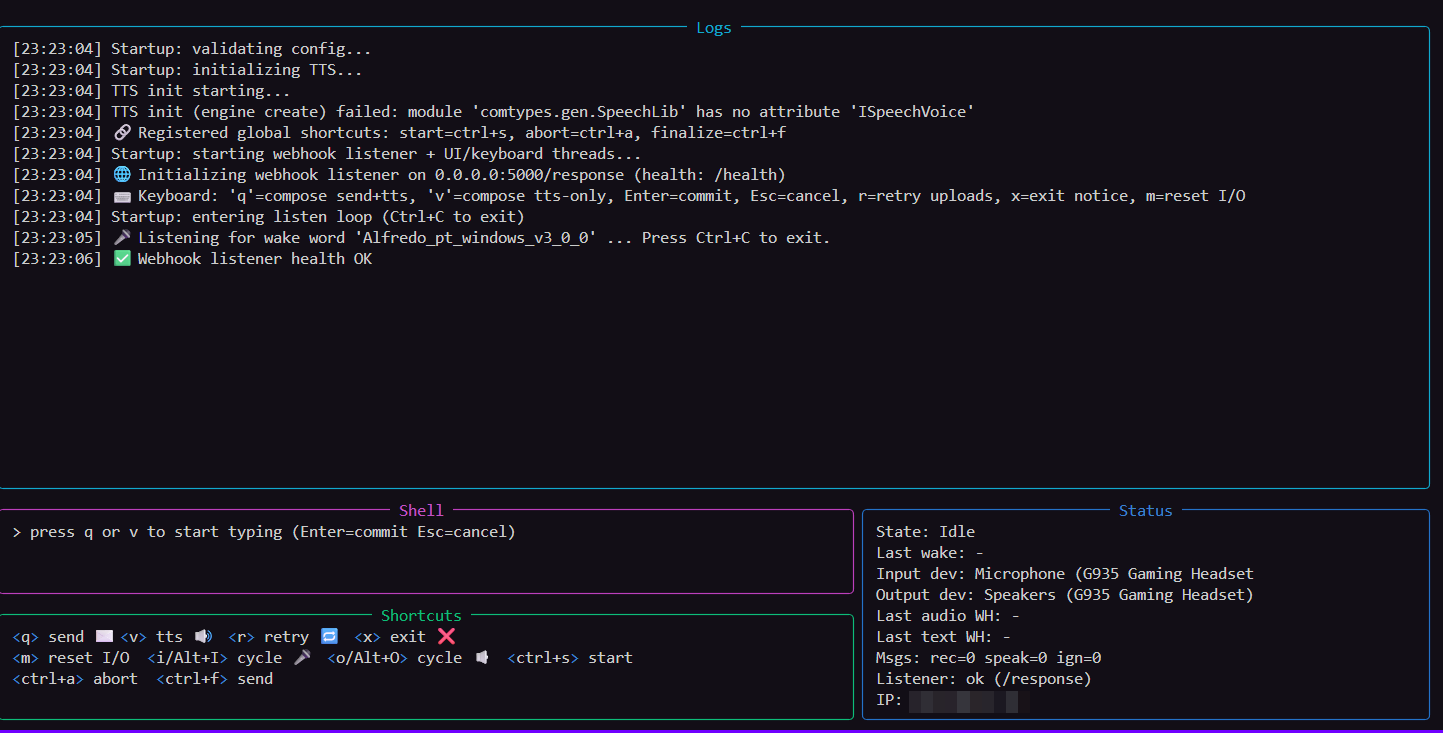
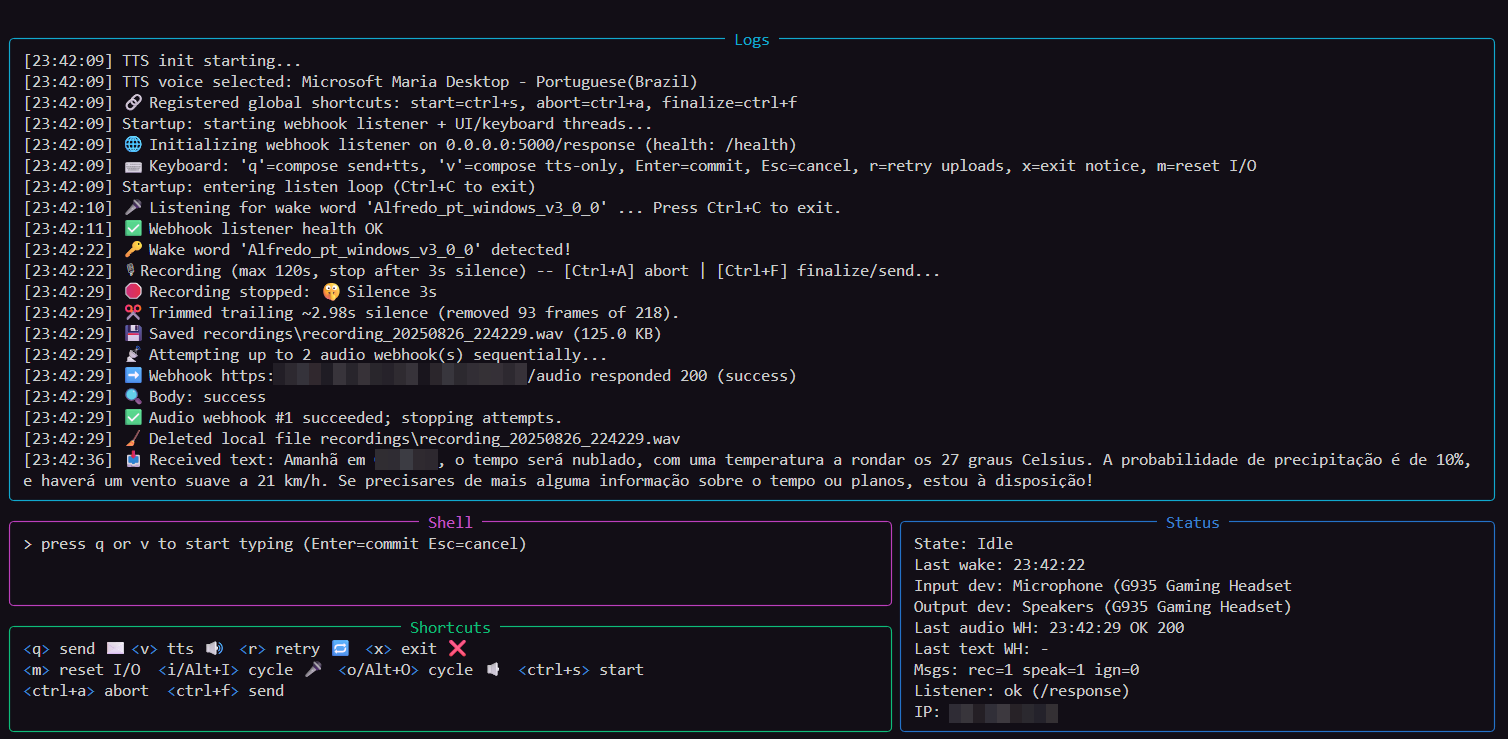
Add TTS support with SpeechLib repair; enable/disable TTS via config

Changed region(s): [[0.0, 0.03, 1.0, 1.0], [0.499, 0.4802, 0.5301, 0.5102]]

diff --git a/main.py b/main.py
@@ -15,6 +15,10 @@ from typing import Optional
 from datetime import datetime, UTC
 from flask import Flask, request, jsonify
 import pyttsx3
+try:
+    import comtypes, comtypes.client  # type: ignore
+except ImportError:
+    comtypes = None  # type: ignore
 import logging
 from logging.handlers import RotatingFileHandler
 try:
@@ -344,6 +348,8 @@ shortcut_abort_requested = False   # Set by global hotkey (if enabled)
 shortcut_finalize_requested = False
 global_hotkeys_ready = False
 manual_record_request = False  # Trigger manual recording (bypass wake word)
+tts_enabled = True
+_speechlib_repair_attempted = False
 
 # ---------------- Failed upload tracking (for manual retry) ------------- #
 pending_failed_uploads = []
@@ -391,39 +397,46 @@ def retry_failed_uploads(cfg):
         log("🎉 All previously failed uploads succeeded or were cleared.")
 
 def init_tts(cfg):
-    """Resolve desired voice/rate from config. Each speak spawns a fresh engine thread.
-    Adds timeout + config disable to avoid startup hang if pyttsx3 blocks.
+    """Resolve desired voice/rate from config. Perform one engine discovery.
+    Keep fast & simple; per-utterance threads will re-init their own engine.
     """
-    global tts_voice_id, tts_rate
+    global tts_voice_id, tts_rate, tts_enabled
     tts_cfg = cfg.get('tts', {}) or {}
     if tts_cfg.get('enabled', True) is False:
+        tts_enabled = False
         log("TTS disabled via config.")
         return
+    tts_enabled = True
     desired_rate = tts_cfg.get('rate')
     voice_index = tts_cfg.get('voice_index')
     voice_name = tts_cfg.get('voice_name')
     log("TTS init starting...")
     temp_engine = None
 
-    # Initialize engine in a helper thread with timeout to prevent indefinite hang.
-    init_result = {}
-    def _engine_init():
+    # Optionally pre-generate SpeechLib once
+    if comtypes is not None:
         try:
-            init_result['engine'] = pyttsx3.init()
+            dll_candidates = [
+                r"C:\\Windows\\System32\\Speech\\Common\\sapi.dll",
+                r"C:\\Windows\\SysWOW64\\Speech\\Common\\sapi.dll",
+            ]
+            for dll in dll_candidates:
+                if os.path.isfile(dll):
+                    try:
+                        comtypes.client.GetModule(dll)
+                        break
+                    except Exception:
+                        continue
         except Exception as e:
-            init_result['error'] = e
+            log(f"TTS notice (prep) ignored: {e}")
 
-    th = threading.Thread(target=_engine_init, daemon=True)
-    th.start()
-    th.join(timeout=3.0)
-    if th.is_alive():
-        log("⚠  TTS init timed out (>3s). Continuing without voice discovery.")
-        return
-    if 'error' in init_result:
-        log(f"TTS init (engine create) failed: {init_result['error']}")
+    # Direct (simple) engine create; short timeout not needed here
+    try:
+        temp_engine = pyttsx3.init(driverName='sapi5')
+    except Exception as e:
+        log(f"TTS init (engine create) failed: {e}")
         return
 
-    temp_engine = init_result.get('engine')
     try:
         voices = (temp_engine.getProperty('voices') or []) if temp_engine else []
         chosen = None
@@ -452,19 +465,58 @@ def init_tts(cfg):
                 temp_engine.stop()
             except Exception:
                 pass
+    # Nothing else; per-call threads will apply voice/rate
+
+def _repair_speechlib_once():
+    global _speechlib_repair_attempted
+    if _speechlib_repair_attempted or comtypes is None:
+        return
+    _speechlib_repair_attempted = True
+    try:
+        import comtypes.gen as gen  # type: ignore
+        gen_dir = os.path.dirname(getattr(gen, '__file__', '') or '')
+        if gen_dir and os.path.isdir(gen_dir):
+            for fn in os.listdir(gen_dir):
+                if fn.startswith('SpeechLib'):
+                    try:
+                        os.remove(os.path.join(gen_dir, fn))
+                    except Exception:
+                        pass
+        dll_candidates = [
+            r"C:\\Windows\\System32\\Speech\\Common\\sapi.dll",
+            r"C:\\Windows\\SysWOW64\\Speech\\Common\\sapi.dll",
+        ]
+        for dll in dll_candidates:
+            if os.path.isfile(dll):
+                try:
+                    comtypes.client.GetModule(dll)
+                    break
+                except Exception:
+                    continue
+        log("TTS repair: SpeechLib regenerated")
+    except Exception as e:
+        log(f"TTS repair skipped: {e}")
+
 
 def speak_text(text):
-    if not text:
+    if not text or not tts_enabled:
         return
-
-    def _speak_blocking(msg):
+    def _speak(msg):
         if pythoncom:
             try:
                 pythoncom.CoInitialize()
             except Exception:
                 pass
+        engine = None
         try:
-            engine = pyttsx3.init()
+            try:
+                engine = pyttsx3.init(driverName='sapi5')
+            except Exception as e:
+                if 'ISpeechVoice' in str(e):
+                    _repair_speechlib_once()
+                    engine = pyttsx3.init(driverName='sapi5')
+                else:
+                    raise
             if tts_rate is not None:
                 try: engine.setProperty('rate', tts_rate)
                 except Exception: pass
@@ -475,16 +527,29 @@ def speak_text(text):
             engine.runAndWait()
         except Exception as e:
             log(f"TTS error: {e}")
+            # Fallback try PowerShell
+            try:
+                escaped = msg.replace('`','``').replace('"','\"')
+                ps_cmd = (
+                    f'powershell -NoProfile -Command "Add-Type -AssemblyName System.Speech; '
+                    f'$sp=New-Object System.Speech.Synthesis.SpeechSynthesizer; '
+                    f'$sp.Rate={(tts_rate if tts_rate else 0)}; $sp.Speak(\"{escaped}\");"'
+                )
+                os.system(ps_cmd)
+            except Exception:
+                pass
         finally:
             try:
-                engine.stop()
+                if engine:
+                    engine.stop()
             except Exception:
                 pass
             if pythoncom:
-                try: pythoncom.CoUninitialize()
-                except Exception: pass
-
-    threading.Thread(target=_speak_blocking, args=(text,), daemon=True).start()
+                try:
+                    pythoncom.CoUninitialize()
+                except Exception:
+                    pass
+    threading.Thread(target=_speak, args=(text,), daemon=True).start()
 
 
 def cleanup_text(original: str) -> str:
